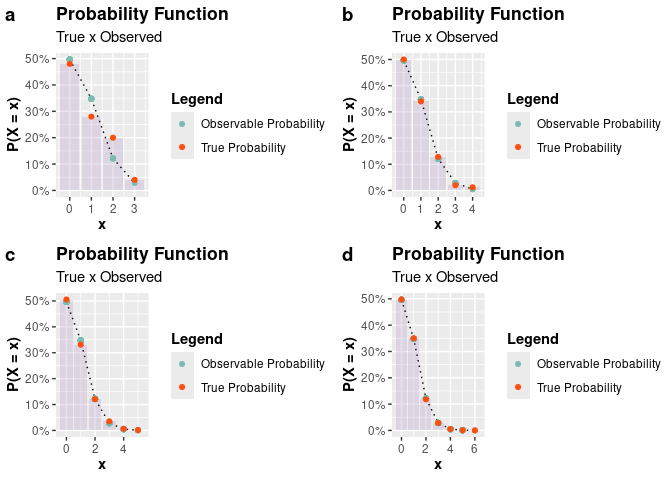
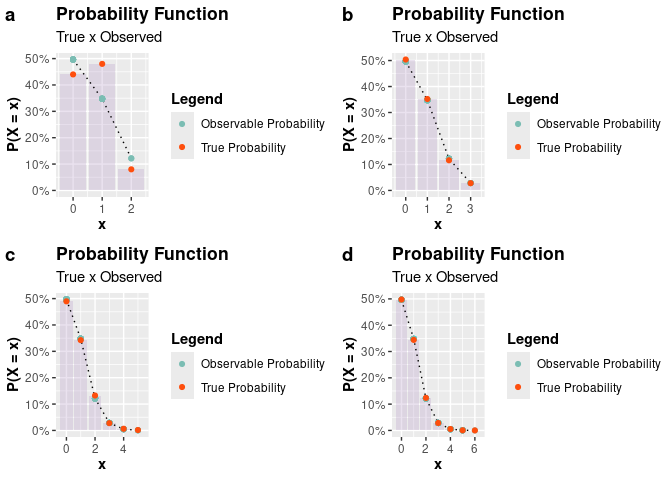
Version 0.1.2

diff --git a/README.md b/README.md
@@ -147,9 +147,7 @@ discrete random variables, consider now that we want to generate
 observations from a random variable
 $X \sim \mathcal{N}(\mu = 0, \sigma^2 = 1)$. We chose the normal
 distribution because we are familiar with its form, but you can choose
-another distribution if desired. Below, we will generate `n = 2000`
-observations using the acceptance-rejection method. Note that
-`continuous = TRUE`.
+another distribution if desired.
 
 ``` r
 library(AcceptReject)
@@ -169,10 +167,10 @@ simulation <- function(n){
   )
 }
 # Inspecting
-a <- plot(simulation(n = 250L))
-b <- plot(simulation(n = 2500L))
-c <- plot(simulation(n = 25000L))
-d <- plot(simulation(n = 250000L))
+a <- plot(simulation(n = 100L))
+b <- plot(simulation(n = 150L))
+c <- plot(simulation(n = 250L))
+d <- plot(simulation(n = 2500L))
 
 plot_grid(a, b, c, d, nrow = 2L, labels = c("a", "b", "c", "d"))
 ```
@@ -277,19 +275,19 @@ set.seed(0)
 
 tic()
 case_1 <- accept_reject(
-  n = 200e3L,
+  n = 2000,
   continuous = TRUE,
   f = dweibull,
   args_f = list(shape = 2.1, scale = 2.2),
   xlim = c(0, 10)
 )
 toc()
-#> 0.371 sec elapsed
+#> 0.009 sec elapsed
 
 # Specifying the base probability density function
 tic()
 case_2 <- accept_reject(
-  n = 200e3L,
+  n = 2000,
   continuous = TRUE,
   f = dweibull,
   args_f = list(shape = 2.1, scale = 2.2),
@@ -300,7 +298,7 @@ case_2 <- accept_reject(
   c = 1.2
 )
 toc()
-#> 0.145 sec elapsed
+#> 0.006 sec elapsed
 
 # Visualizing the results
 p1 <- plot(case_1)
